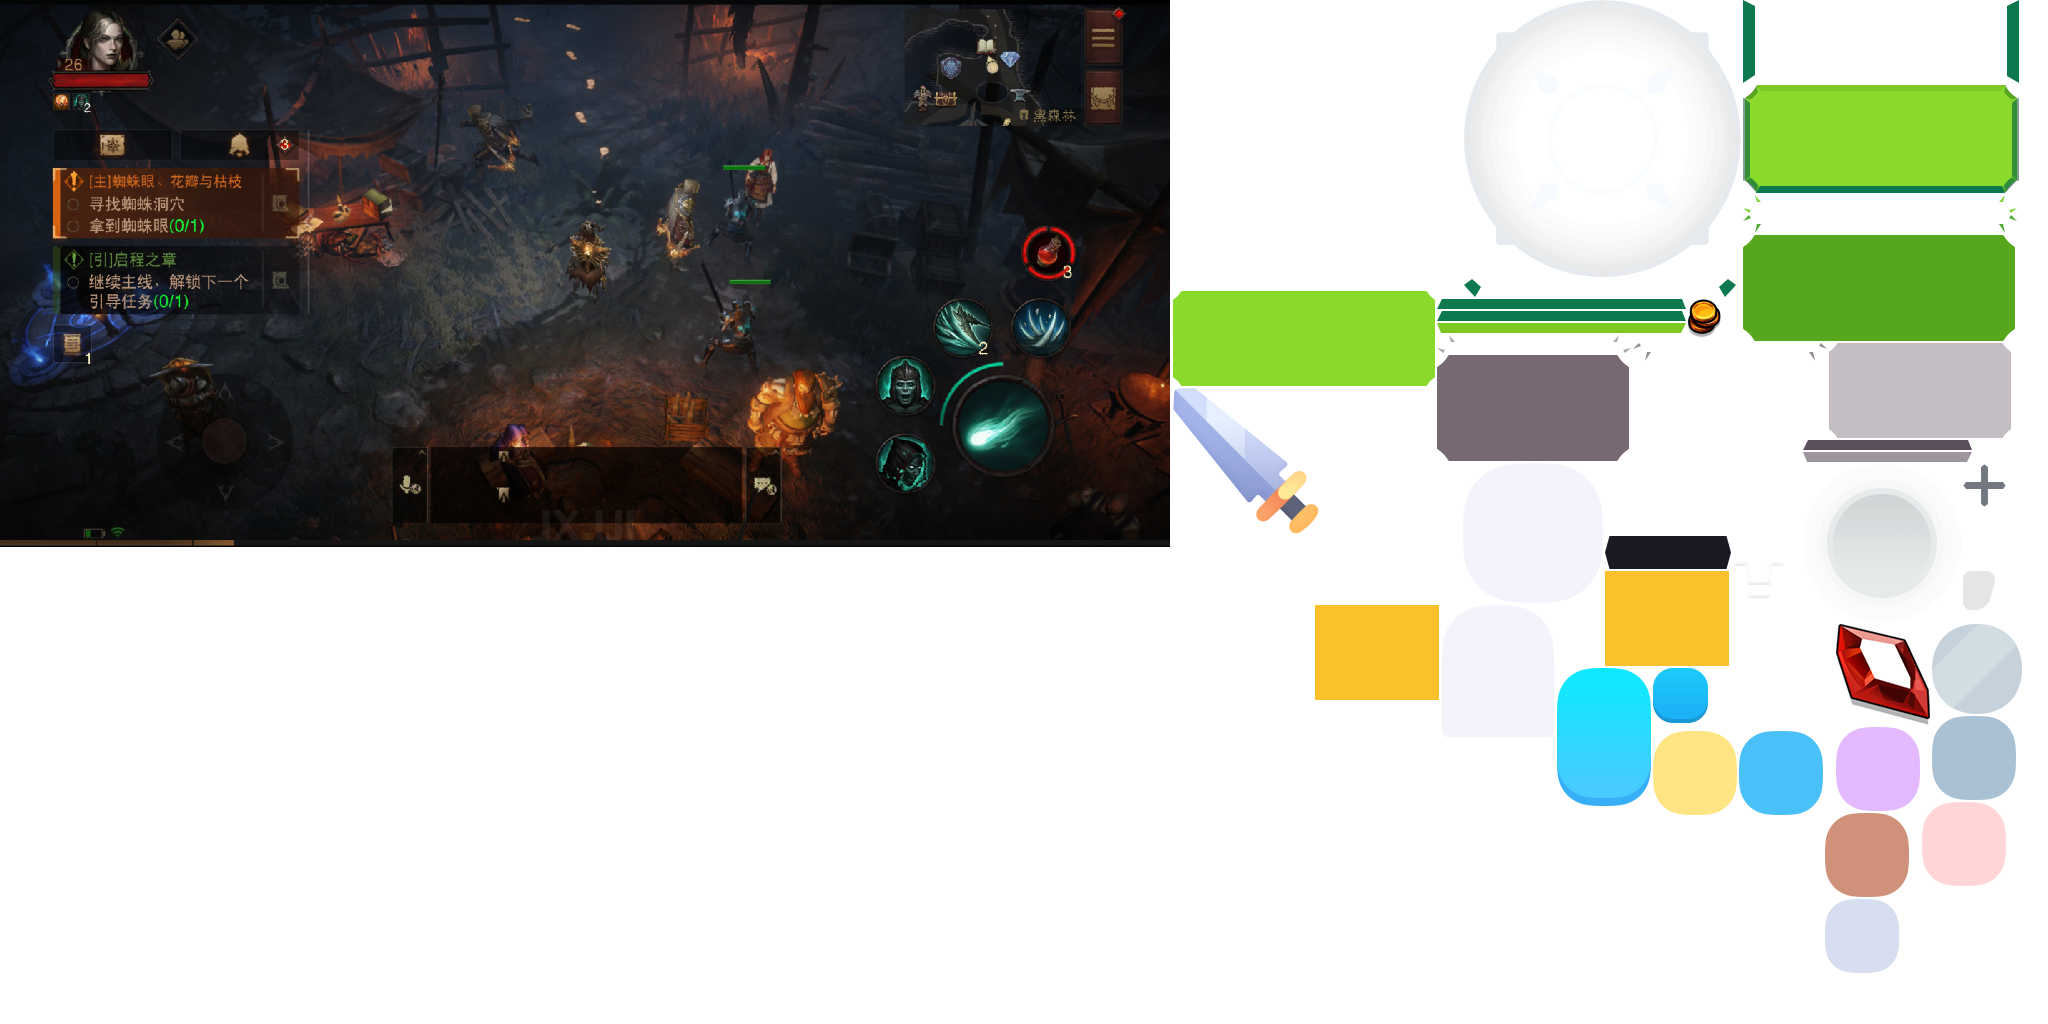
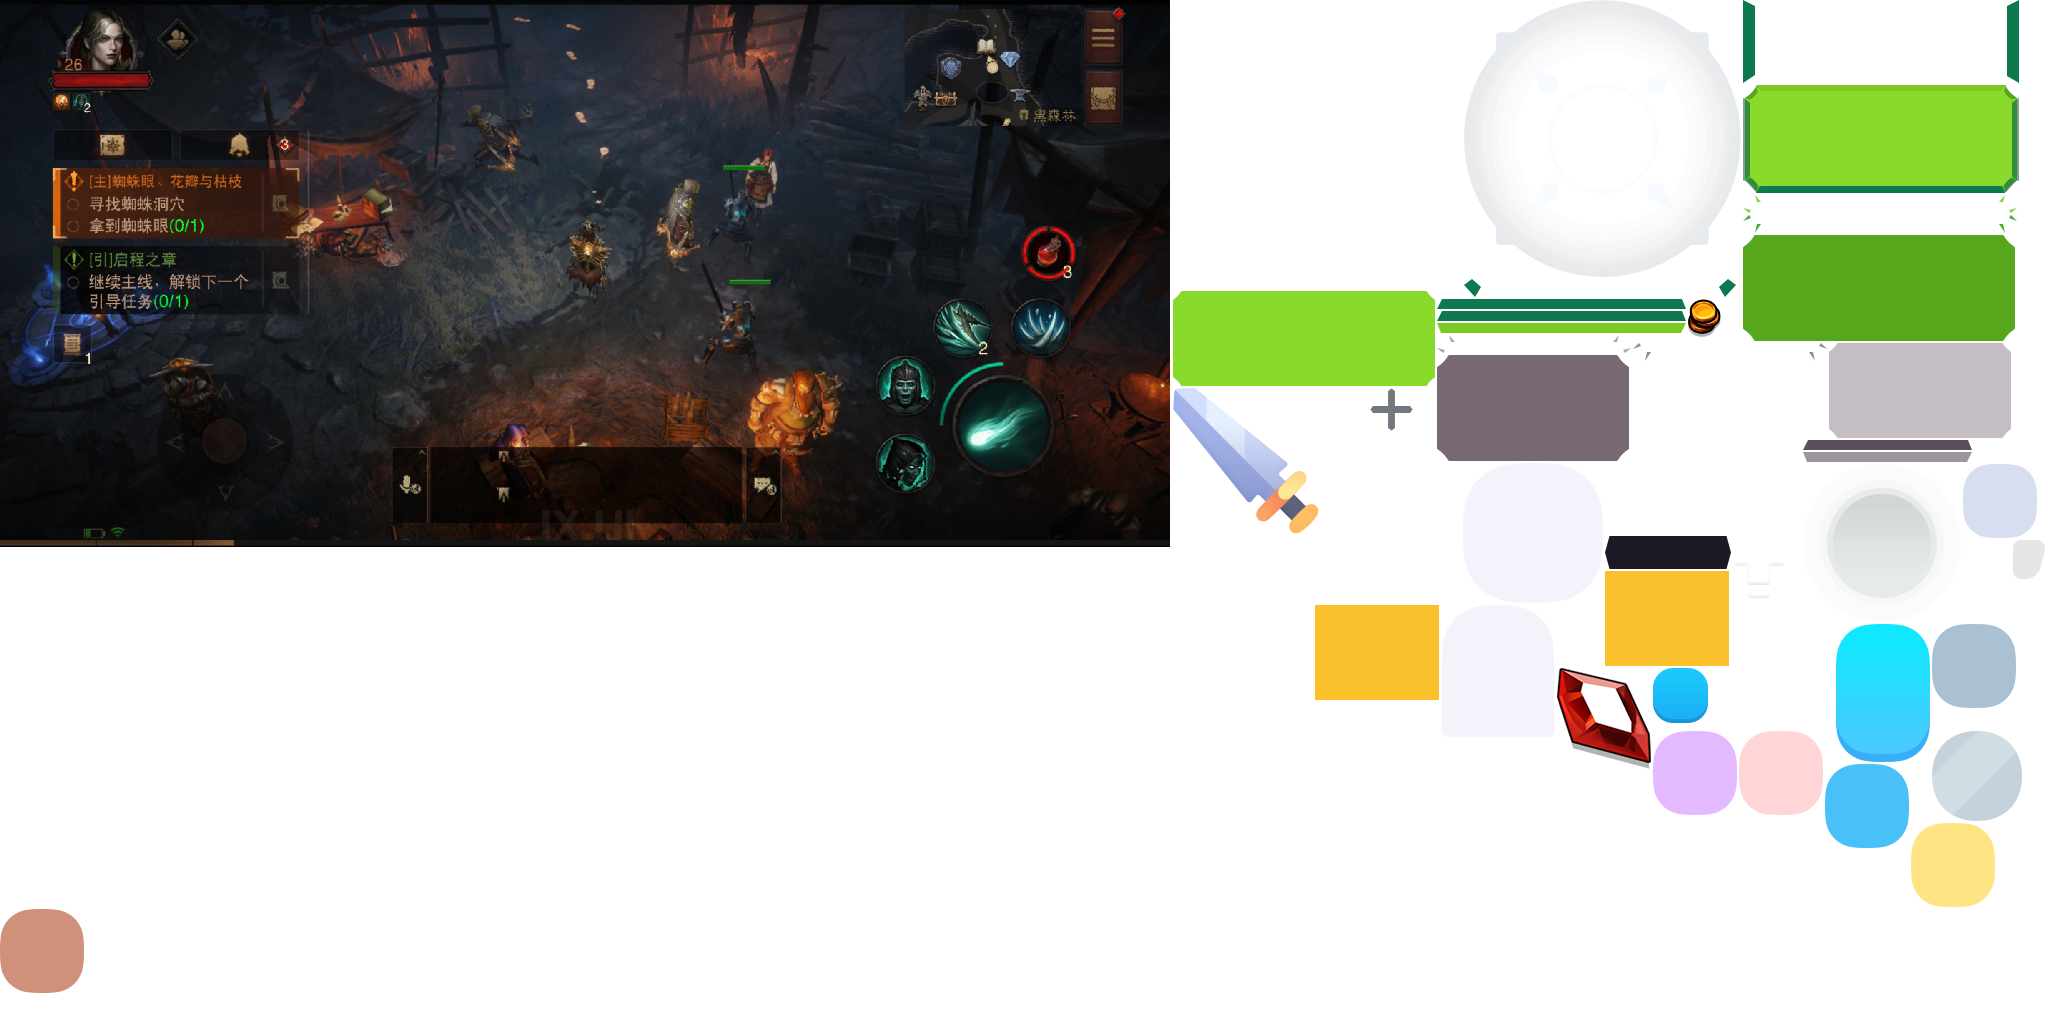
添加了 自定义按键位置

Changed region(s): [[0.75, 0.4375, 1.0, 0.9688], [0.0, 0.875, 0.0625, 0.9688], [0.6562, 0.375, 0.6875, 0.4062]]

diff --git a/Assets/Scripts/Configuration.cs b/Assets/Scripts/Configuration.cs
@@ -57,6 +57,16 @@ namespace ms
 			settings.emplace<MiniMapSimpleMode> ();
 			settings.emplace<MiniMapDefaultHelpers> ();
 			settings.emplace<JSDebugOn> ();
+			settings.emplace<PosBtnHeavyAttack> ();
+			settings.emplace<PosBtnLightAttack> ();
+			settings.emplace<PosBtnJump> ();
+			settings.emplace<PosBtnPickUp> ();
+			settings.emplace<PosBtnSkill1> ();
+			settings.emplace<PosBtnSkill2> ();
+			settings.emplace<PosBtnSkill3> ();
+			settings.emplace<PosBtnSkill4> ();
+			settings.emplace<PosBtnSkill5> ();
+			settings.emplace<PosBtnSkill6> ();
 
             load ();
 		}
@@ -600,7 +610,18 @@ namespace ms
 		private byte channelid;
 		private bool admin;
 		public TypeMap<Entry> settings = new TypeMap<Entry> ();
-	}
+
+        public const string DefaultPos_Btn_HeavyAttack = "(1391,917)";
+        public const string DefaultPos_Btn_LightAttack = "(1561,922)";
+        public const string DefaultPos_Btn_Jump = "(1679,769)";
+        public const string DefaultPos_Btn_PickUp = "(1731,917)";
+        public const string DefaultPos_Btn_Skill1 = "(1391,620)";
+        public const string DefaultPos_Btn_Skill2 = "(1561,620)";
+        public const string DefaultPos_Btn_Skill3 = "(1731,620)";
+        public const string DefaultPos_Btn_Skill4 = "(1339,769)";
+        public const string DefaultPos_Btn_Skill5 = "(1509,769)";
+        public const string DefaultPos_Btn_Skill6 = "(1017,800)";
+    }
 
 	// IP Address which the client will connect to
 	public class ServerIP : Configuration.StringEntry
@@ -929,6 +950,68 @@ namespace ms
         }
     }
 
+    
+    public class PosBtnHeavyAttack : Configuration.PointEntry
+    {
+        public PosBtnHeavyAttack() : base("PosHeavyAttack", Configuration.DefaultPos_Btn_HeavyAttack)
+        {
+        }
+    }
+    public class PosBtnLightAttack : Configuration.PointEntry
+    {
+        public PosBtnLightAttack() : base("PosLightAttack", Configuration.DefaultPos_Btn_LightAttack)
+        {
+        }
+    }
+    public class PosBtnJump : Configuration.PointEntry
+    {
+        public PosBtnJump() : base("PosBtnJump", Configuration.DefaultPos_Btn_Jump)
+        {
+        }
+    }
+    public class PosBtnPickUp : Configuration.PointEntry
+    {
+        public PosBtnPickUp() : base("PosBtnPickUp", Configuration.DefaultPos_Btn_PickUp)
+        {
+        }
+    }
+    public class PosBtnSkill1 : Configuration.PointEntry
+    {
+        public PosBtnSkill1() : base("PosBtnSkill1", Configuration.DefaultPos_Btn_Skill1)
+        {
+        }
+    }
+    public class PosBtnSkill2 : Configuration.PointEntry
+    {
+        public PosBtnSkill2() : base("PosBtnSkill2", Configuration.DefaultPos_Btn_Skill2)
+        {
+        }
+    }
+    public class PosBtnSkill3 : Configuration.PointEntry
+    {
+        public PosBtnSkill3() : base("PosBtnSkill3", Configuration.DefaultPos_Btn_Skill3)
+        {
+        }
+    }
+    public class PosBtnSkill4 : Configuration.PointEntry
+    {
+        public PosBtnSkill4() : base("PosBtnSkill4", Configuration.DefaultPos_Btn_Skill4)
+        {
+        }
+    }
+    public class PosBtnSkill5 : Configuration.PointEntry
+    {
+        public PosBtnSkill5() : base("PosBtnSkill5", Configuration.DefaultPos_Btn_Skill5)
+        {
+        }
+    }
+    public class PosBtnSkill6 : Configuration.PointEntry
+    {
+        public PosBtnSkill6() : base("PosBtnSkill6", Configuration.DefaultPos_Btn_Skill6)
+        {
+        }
+    }
+ 
     // Can be used to access settings
     public class Setting<T> where T : Configuration.Entry, new ()
 	{

diff --git a/Assets/Scripts/ms_Unity/FGUI_StatusBar.cs b/Assets/Scripts/ms_Unity/FGUI_StatusBar.cs
@@ -28,6 +28,7 @@ namespace ms_Unity
         public GButton _BT_COMMUNITY_PARTY;
         public GButton _BT_BackToChooseChar;
         public GButton _BT_BackToLogin;
+        public GButton _BT_CustomizeButtons;
         public GGroup _mid;
         public GGroup _Right;
         public GGroup _FunctionPanel;
@@ -71,15 +72,16 @@ namespace ms_Unity
             _BT_COMMUNITY_PARTY = (GButton)GetChildAt(27);
             _BT_BackToChooseChar = (GButton)GetChildAt(28);
             _BT_BackToLogin = (GButton)GetChildAt(29);
-            _mid = (GGroup)GetChildAt(30);
-            _Right = (GGroup)GetChildAt(31);
-            _FunctionPanel = (GGroup)GetChildAt(32);
-            _Txt_EXP = (GTextField)GetChildAt(34);
-            _Txt_Channel = (GTextField)GetChildAt(35);
-            _Txt_Time = (GTextField)GetChildAt(36);
-            _ProgressBar_EXP = (GProgressBar)GetChildAt(37);
-            _Txt_Version = (GTextField)GetChildAt(38);
-            _Bottom = (GGroup)GetChildAt(39);
+            _BT_CustomizeButtons = (GButton)GetChildAt(30);
+            _mid = (GGroup)GetChildAt(31);
+            _Right = (GGroup)GetChildAt(32);
+            _FunctionPanel = (GGroup)GetChildAt(33);
+            _Txt_EXP = (GTextField)GetChildAt(35);
+            _Txt_Channel = (GTextField)GetChildAt(36);
+            _Txt_Time = (GTextField)GetChildAt(37);
+            _ProgressBar_EXP = (GProgressBar)GetChildAt(38);
+            _Txt_Version = (GTextField)GetChildAt(39);
+            _Bottom = (GGroup)GetChildAt(40);
             _t_ShowFunctionPanel = GetTransitionAt(0);
             _t_HideFunctionPanel = GetTransitionAt(1);
             OnCreate();

diff --git a/Assets/Scripts/View/FGUI_ActionButtons.cs b/Assets/Scripts/View/FGUI_ActionButtons.cs
@@ -236,5 +236,19 @@ namespace ms_Unity
 		{
 			ms.Stage.get ().get_combat ().use_move (1121006, false, true);
 		}
+
+		public void RefreshPos()
+		{
+			_Btn_HeavyAttack.SetXY(ms.Setting<PosBtnHeavyAttack>.get().load().x(), ms.Setting<PosBtnHeavyAttack>.get().load().y());
+			_Btn_LightAttack.SetXY(ms.Setting<PosBtnLightAttack>.get().load().x(), ms.Setting<PosBtnLightAttack>.get().load().y());
+			_Btn_Jump.SetXY(ms.Setting<PosBtnJump>.get().load().x(), ms.Setting<PosBtnJump>.get().load().y());
+			_Btn_PickUp.SetXY(ms.Setting<PosBtnPickUp>.get().load().x(), ms.Setting<PosBtnPickUp>.get().load().y());
+			_Btn_Skill1.SetXY(ms.Setting<PosBtnSkill1>.get().load().x(), ms.Setting<PosBtnSkill1>.get().load().y());
+			_Btn_Skill2.SetXY(ms.Setting<PosBtnSkill2>.get().load().x(), ms.Setting<PosBtnSkill2>.get().load().y());
+			_Btn_Skill3.SetXY(ms.Setting<PosBtnSkill3>.get().load().x(), ms.Setting<PosBtnSkill3>.get().load().y());
+			_Btn_Skill4.SetXY(ms.Setting<PosBtnSkill4>.get().load().x(), ms.Setting<PosBtnSkill4>.get().load().y());
+			_Btn_Skill5.SetXY(ms.Setting<PosBtnSkill5>.get().load().x(), ms.Setting<PosBtnSkill5>.get().load().y());
+            _Btn_Skill6.SetXY(ms.Setting<PosBtnSkill6>.get().load().x(), ms.Setting<PosBtnSkill6>.get().load().y());
+        }
 	}
 }

diff --git a/Assets/Scripts/View/FGUI_Joystick.cs b/Assets/Scripts/View/FGUI_Joystick.cs
@@ -210,7 +210,7 @@ namespace ms_Unity
                 //AppDebug.Log ($"right");
                 UI.get().send_key(GLFW_Util.UnityKeyCodeToGLFW_KEY(KeyCode.RightArrow), true);
             }
-            else if (absDegree > 22.5 && absDegree < 67.5)
+            if (absDegree > 22.5 && absDegree < 67.5)
             {
                 UI.get().send_key(GLFW_Util.UnityKeyCodeToGLFW_KEY(KeyCode.RightArrow), true);
 
@@ -227,7 +227,7 @@ namespace ms_Unity
 
                 }
             }
-            else
+            
             if (absDegree > 67.5 && absDegree <= 112.5)
             {
                 if (degree < 0)
@@ -244,7 +244,7 @@ namespace ms_Unity
                 }
 
             }
-            else
+            
             if (absDegree > 112.5 && absDegree <= 157.5)
             {
                 //AppDebug.Log ($"left");
@@ -262,7 +262,7 @@ namespace ms_Unity
 
                 }
             }
-            else
+           
             if (absDegree > 157.5 && absDegree <= 180)
             {
                 //AppDebug.Log ($"left");

diff --git a/Assets/Scripts/View/FGUI_StatusBar.cs b/Assets/Scripts/View/FGUI_StatusBar.cs
@@ -23,12 +23,18 @@ namespace ms_Unity
 			_Btn_OpenInventoryPanel.onClick.Add (OnClick_OpenInventoryPanel);
 			_BT_BackToChooseChar.onClick.Add (OnClick_BackToChooseChar);
 			_BT_BackToLogin.onClick.Add (OnClick_BackToLogin);
+			_BT_CustomizeButtons.onClick.Add (OnClick_CustomizeButtons);
 
-			_Txt_Version.SetVar("count", GameUtil.Instance.Version).FlushVars();
+            _Txt_Version.SetVar("count", GameUtil.Instance.Version).FlushVars();
 
         }
 
-		private void OnClick_OpenInventoryPanel (EventContext context)
+        private void OnClick_CustomizeButtons(EventContext context)
+        {
+			FGUI_Manager.Instance.OpenFGUI<FGUI_CustomizeJoystickAndButtons>();
+        }
+
+        private void OnClick_OpenInventoryPanel (EventContext context)
 		{
 			UI.get ().emplace<UIItemInventory> (ms.Stage.get ().get_player ().get_inventory ());
 		}

diff --git a/Assets/Scripts/ms_Unity/ms_UnityBinder.cs b/Assets/Scripts/ms_Unity/ms_UnityBinder.cs
@@ -17,6 +17,7 @@ namespace ms_Unity
             UIObjectFactory.SetPackageItemExtension(FGUI_EquipInventory.URL, typeof(FGUI_EquipInventory));
             UIObjectFactory.SetPackageItemExtension(FGUI_Equipped_ListItem.URL, typeof(FGUI_Equipped_ListItem));
             UIObjectFactory.SetPackageItemExtension(FGUI_Itemed_ItemDetail.URL, typeof(FGUI_Itemed_ItemDetail));
+            UIObjectFactory.SetPackageItemExtension(FGUI_CustomizeJoystickAndButtons.URL, typeof(FGUI_CustomizeJoystickAndButtons));
             UIObjectFactory.SetPackageItemExtension(FGUI_Joystick.URL, typeof(FGUI_Joystick));
             UIObjectFactory.SetPackageItemExtension(FGUI_ItemInventory.URL, typeof(FGUI_ItemInventory));
             UIObjectFactory.SetPackageItemExtension(FGUI_ShopItemDetail.URL, typeof(FGUI_ShopItemDetail));

diff --git a/Assets/Scripts/General/Template/Point.cs b/Assets/Scripts/General/Template/Point.cs
@@ -39,7 +39,15 @@ namespace ms
             a = first;
             b = second;
         }
-
+        public Point_short(string str)
+        {
+            var arr = str.Replace("(", "").Replace(")", "").Split(",");
+            if (arr.Length == 2)
+            {
+                short.TryParse(arr[0], out a);
+                short.TryParse(arr[1], out b);
+            }
+        }
         // Return the x-coordinate
         public short x()
         {

diff --git a/Assets/Scripts/General/Gameplay/Stage.cs b/Assets/Scripts/General/Gameplay/Stage.cs
@@ -60,7 +60,6 @@ namespace ms
 
 		private long expBefore;
 
-
 		public Stage ()
 		{
 			state = State.INACTIVE;
